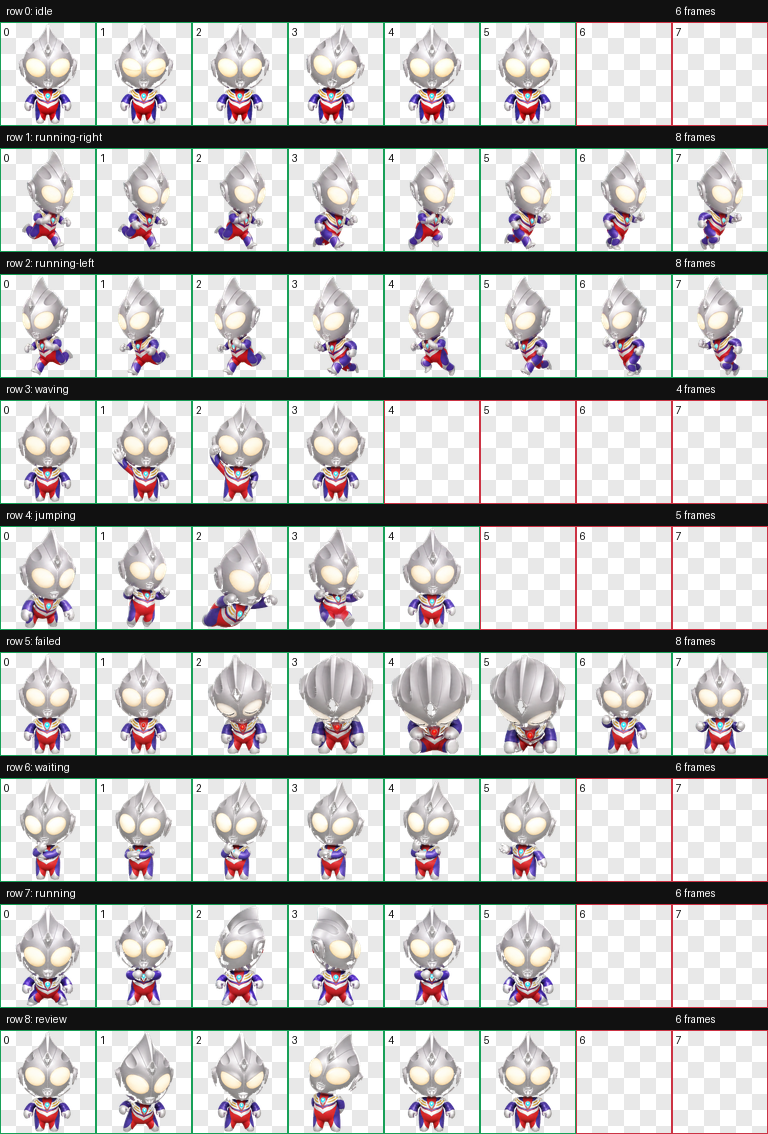
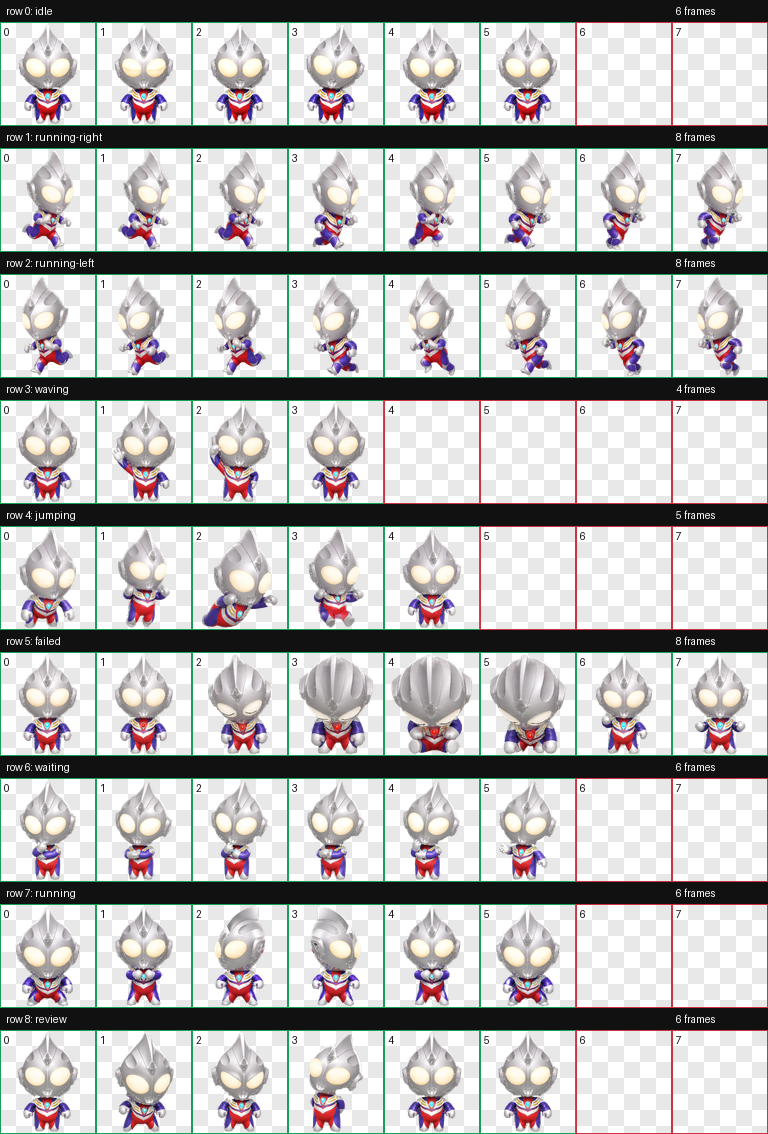
fix: repair transparency holes and edge matte (v1.0.1)

diff --git a/README.md b/README.md
@@ -1,57 +1,62 @@
 # Tiga / 迪迦 Codex Pet
 
-An unofficial, fan-made animated Codex pet based on the supplied chibi Tiga reference. The pet uses Codex's native 8-column × 9-row custom-pet atlas format.
+当前公开版本：**v1.0.1**
+
+这是一个适用于 Codex 的 Q 版 Tiga 主题自定义宠物包。角色采用银色头冠、暖白发光眼、红紫银身体纹样、金色胸甲和胸口计时器，并覆盖 Codex 固定的九种宠物状态。
 
 ![Tiga animation contact sheet](contact-sheet.png)
 
-## Install
+## 安装
 
-Copy these two files into a `tiga` directory under your Codex pets folder:
+把以下两个文件复制到 Codex 宠物目录中的 `tiga` 文件夹：
+
+- `pet.json`
+- `spritesheet.webp`
+
+Windows 默认位置通常为：
 
 ```text
-~/.codex/pets/tiga/
-├── pet.json
-└── spritesheet.webp
+%USERPROFILE%\.codex\pets\tiga
 ```
 
-If `CODEX_HOME` is configured, use `$CODEX_HOME/pets/tiga/` instead.
+## v1.0.1 修复
 
-## Animation states
+- 修复全部 57 个已使用动画帧的脸部、额头、下颌和外轮廓透明穿孔。
+- 还原误抠除区域的颜色和实心 alpha，保留正常肢体间隙与动作轮廓。
+- 清理低透明边缘的白色 matte：检测像素由 10,157 降至 105。
+- 对 `alpha=0`、`alpha≤8`、`alpha≤63` 三档封闭空洞复检，结果均为 0。
+- 在黑色、洋红和白色背景下完成逐帧视觉 QA，九个动作 GIF 均通过。
 
-| Row | State | Frames | Tiga interpretation |
+## 图集合同
+
+- 图集：1536×1872 RGBA WebP
+- 布局：8 列 × 9 行
+- 单元格：192×208
+- 未使用格：完全透明
+
+| 行 | 状态 | 帧数 | 动作 |
 |---:|---|---:|---|
-| 0 | `idle` | 6 | Breathing, subtle bob, and blink |
-| 1 | `running-right` | 8 | Right-facing alternating gait |
-| 2 | `running-left` | 8 | Left-facing alternating gait |
-| 3 | `waving` | 4 | Restrained victory greeting |
-| 4 | `jumping` | 5 | Takeoff, airborne pose, and landing |
-| 5 | `failed` | 8 | Slump, cyan-to-red timer warning, recovery |
-| 6 | `waiting` | 6 | Thinking, head tilt, and asking pose |
-| 7 | `running` | 6 | Non-locomotion guard and focus cycle |
-| 8 | `review` | 6 | Ready stance, inspection, confident finish |
+| 0 | `idle` | 6 | 呼吸、轻微起伏与眨眼 |
+| 1 | `running-right` | 8 | 右向交替步态 |
+| 2 | `running-left` | 8 | 左向交替步态 |
+| 3 | `waving` | 4 | 举手问候 |
+| 4 | `jumping` | 5 | 蓄势、腾空、下降与落地 |
+| 5 | `failed` | 8 | 低头、计时器警告、重新振作 |
+| 6 | `waiting` | 6 | 思考与等待用户输入 |
+| 7 | `running` | 6 | 任务处理中与左右扫描 |
+| 8 | `review` | 6 | 专注检查与收势 |
 
-## Previews
+## 验证
 
-| Idle | Failed / timer warning |
-|---|---|
-| ![Idle animation](previews/idle.gif) | ![Failed animation](previews/failed.gif) |
+- `inspect_frames.py --require-components`：0 errors，0 warnings
+- `validate_atlas.py`：通过
+- 尺寸与 RGBA 格式正确
+- 透明 RGB 残留：0
+- 所有已使用格非空，所有未使用格完全透明
+- 最终视觉 QA：通过
 
-All nine row previews are available in [`previews/`](previews/).
+详细修复指标见 [`repair-report.json`](repair-report.json)，版本记录见 [`CHANGELOG.md`](CHANGELOG.md)。
 
-## Validation
+## 说明
 
-- Atlas: `1536 × 1872`, RGBA WebP
-- Cell size: `192 × 208`
-- Frame inspection: 0 errors, 0 warnings
-- Transparent RGB residue: 0 pixels
-- Visible green-spill pixels after final decontamination: 0
-- Independent visual QA: passed for identity, motion, direction, state semantics, and transparent edges
-
-## Format boundary
-
-Codex custom pets currently use a fixed nine-state atlas contract. Extra standalone states such as a beam attack, type transformation, punch/kick, or custom double-click handler are therefore not separately addressable in this package; their broader ready, charge, flight, success, thinking, and error cues are mapped into the supported rows above.
-
-## Notice
-
-This is an unofficial fan-made derivative asset provided for personal customization and is not affiliated with or endorsed by the relevant Tiga/Ultraman rights holders. No trademark or character-licensing rights are granted by this repository.
-
+这是一个非官方、非商业的粉丝创作项目，与圆谷制作及相关权利方无隶属或授权关系。角色名称与原始设计归各自权利方所有。

diff --git a/CHANGELOG.md b/CHANGELOG.md
@@ -1,0 +1,14 @@
+# Changelog
+
+## v1.0.1 — 2026-08-31
+
+- 修复全部 57 个已使用动画帧的透明穿孔与脸部穿模。
+- 填补额头、脸颊、下颌及外轮廓的错误 alpha 缺口。
+- 从可靠核心像素恢复缺失颜色，并清理低透明白色边缘垫色。
+- 保留原有动作、方向、布局、尺寸、帧数与正常肢体间隙。
+- 重新生成并通过图集验证、逐帧检查、九个动作 GIF 与三背景视觉 QA。
+
+## v1.0.0 — 2026-08-31
+
+- 首次公开版本。
+- 提供 Codex 九状态 Tiga 主题宠物图集与预览。
